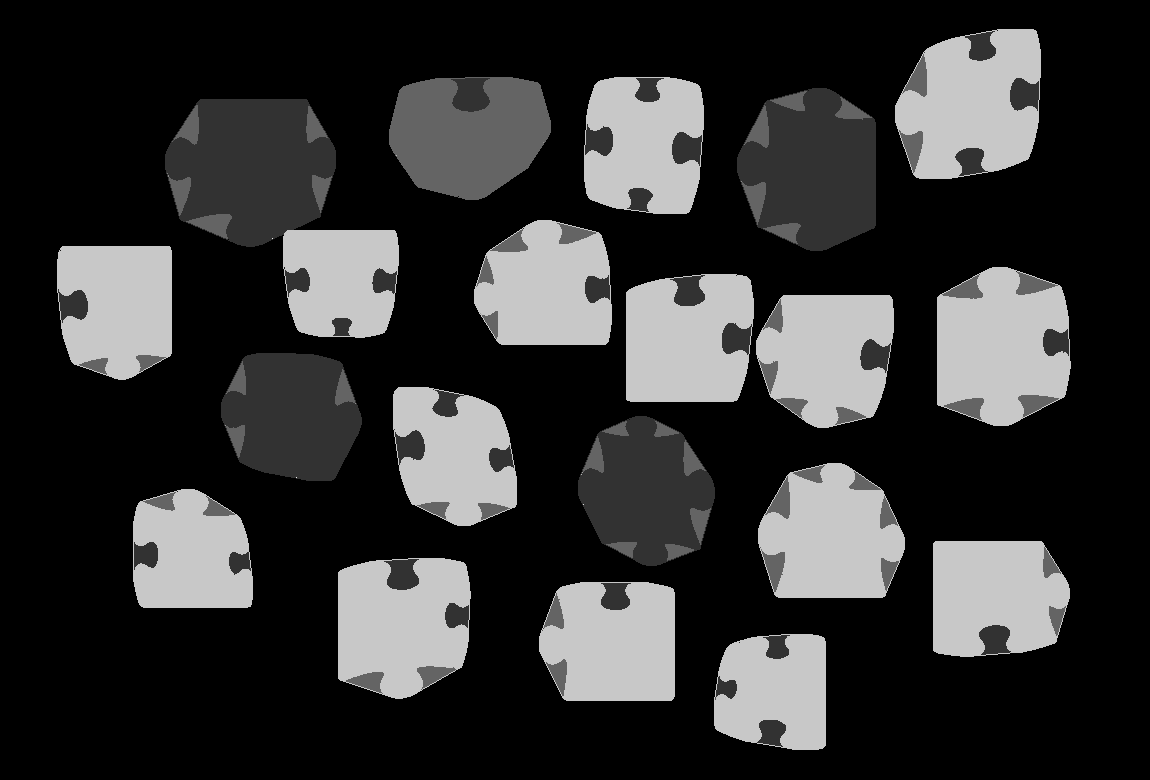
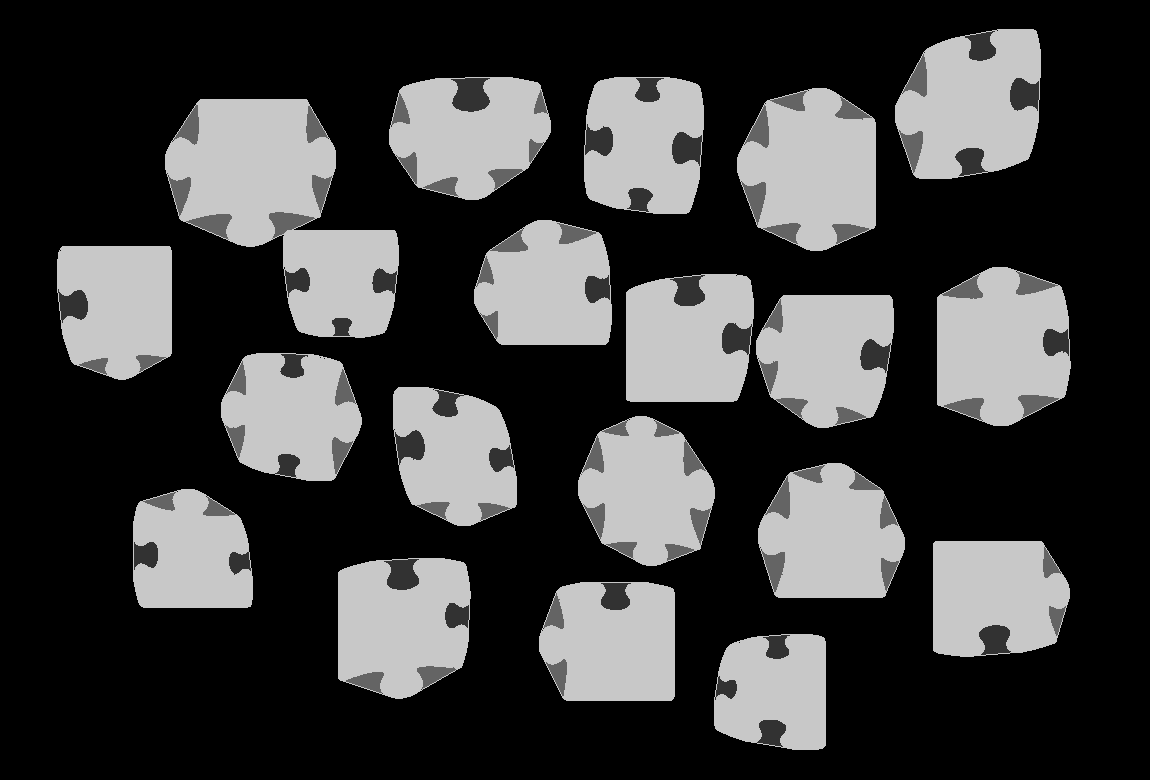
Can detect concave and convex

diff --git a/main.cpp b/main.cpp
@@ -154,15 +154,15 @@ std::vector<std::vector<int>> detectPieceFeatures(int R, int C, std::vector<kika
   for (int i = 0; i < R; ++i) {
     for (int j = 0; j < C; ++j) {
       if (~res[i][j]) continue;
-      flood(R, C, i, j, col_cnt * 20, [](int x, int y) { return false; }, res);
+      flood(R, C, i, j, col_cnt * 10, [](int x, int y) { return false; }, res);
       ++col_cnt;
     }
   }
   std::vector<std::vector<kika::cod>> mat(col_cnt - 1);
   for (int i = 0; i < R; ++i) {
     for (int j = 0; j < C; ++j) {
-      if (0 < res[i][j] && res[i][j] < col_cnt * 20) {
-        mat[res[i][j] / 20 - 1].push_back(kika::cod(i, j));
+      if (0 < res[i][j] && res[i][j] < col_cnt * 10) {
+        mat[res[i][j] / 10 - 1].push_back(kika::cod(i, j));
       }
     }
   }
@@ -203,7 +203,6 @@ std::vector<std::vector<int>> detectPieceFeatures(int R, int C, std::vector<kika
       std::plus<double>()
     ) / mat[c].size();
     for (const auto &p : mat[c]) {
-      continue;
       int x = std::real(p);
       int y = std::imag(p);
       if (std::abs(sx - sy) / (sx + sy) < 0.2) { // concave
